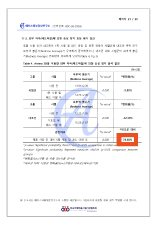
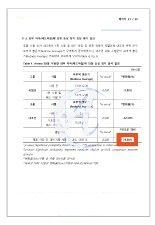
시험기관명·보고서 번호 비공개 처리, 보고서 이미지 로고 제거
Claude-Session: https://claude.ai/code/session_01Mrz4E1zX3mzs7w2jWr6BSj

diff --git a/product.html b/product.html
@@ -227,7 +227,7 @@ h1,h2,h3,h4,p{margin:0}
 <div style="flex:1 1 520px;display:flex;flex-direction:column;gap:18px">
 <span class="km" style="font-size:40px;line-height:1">HALF</span>
 <h2 id="test-title" style="font-size:clamp(32px,3.8vw,52px);line-height:1.25;font-weight:700">러너의 체감에만 머물지 않고,<br>시험으로 확인했습니다</h2>
-<p style="font-size:18px;line-height:1.85;color:#272F59">외부 시험기관 (주)에이스피부임상연구소에서 인체적용시험 3종을 진행해 마찰 조건에서의 피부 붉은기 변화와 피부 자극 여부를 확인했습니다.</p>
+<p style="font-size:18px;line-height:1.85;color:#272F59">외부 피부임상 전문 시험기관에서 인체적용시험 3종을 진행해 마찰 조건에서의 피부 붉은기 변화와 피부 자극 여부를 확인했습니다.</p>
 </div>
 <img loading="lazy" class="photo" src="images/test_runner.jpg" alt="러너가 앉아서 허벅지에 노벤디아 스틱을 바르는 모습" style="flex:0 1 300px;width:300px;aspect-ratio:292/375">
 </div>
@@ -255,13 +255,13 @@ h1,h2,h3,h4,p{margin:0}
 </div>
 <figure class="card" style="flex:1 1 220px;margin:0;padding:24px;display:flex;flex-direction:column;gap:12px;align-items:center">
 <strong style="font-size:16px;align-self:flex-start">시험보고서 원문</strong>
-<img loading="lazy" src="images/report1.jpg" alt="에이스피부임상연구소 시험보고서 ASC-26-E926 21쪽 표 4 일부" style="width:100%;max-width:200px;border:1px solid #E4DDD1;border-radius:4px">
-<figcaption class="note" style="text-align:center">ASC-26-E926 · 21쪽 · 표 4</figcaption>
+<img loading="lazy" src="images/report1.jpg" alt="인체적용시험 보고서 표 4 일부" style="width:100%;max-width:200px;border:1px solid #E4DDD1;border-radius:4px">
+<figcaption class="note" style="text-align:center">시험보고서 · 표 4</figcaption>
 </figure>
 </div>
 <div style="display:flex;flex-direction:column;gap:6px">
 <p style="font-size:14px;font-weight:600;color:#272F59">성인 여성 22명 · 왼쪽 전박(아래팔) · Antera 3D · 군 간 비교 p &lt; 0.05</p>
-<p class="note">시험기관 (주)에이스피부임상연구소 | 시험일 2026.09.28 | 시험 결과에는 개인차가 있습니다. 백분율은 보고서 기재값이며, 그래프는 참여자 평균값입니다.</p>
+<p class="note">외부 피부임상 전문 시험기관 | 시험일 2026.09.28 | 시험 결과에는 개인차가 있습니다. 백분율은 보고서 기재값이며, 그래프는 참여자 평균값입니다.</p>
 </div>
 </article>
 
@@ -288,13 +288,13 @@ h1,h2,h3,h4,p{margin:0}
 </div>
 <figure class="card" style="flex:1 1 220px;margin:0;padding:24px;display:flex;flex-direction:column;gap:12px;align-items:center">
 <strong style="font-size:16px;align-self:flex-start">시험보고서 원문</strong>
-<img loading="lazy" src="images/report2.jpg" alt="에이스피부임상연구소 시험보고서 ASC-26-E926 23쪽 표 5 일부" style="width:100%;max-width:200px;border:1px solid #E4DDD1;border-radius:4px">
-<figcaption class="note" style="text-align:center">ASC-26-E926 · 23쪽 · 표 5</figcaption>
+<img loading="lazy" src="images/report2.jpg" alt="인체적용시험 보고서 표 5 일부" style="width:100%;max-width:200px;border:1px solid #E4DDD1;border-radius:4px">
+<figcaption class="note" style="text-align:center">시험보고서 · 표 5</figcaption>
 </figure>
 </div>
 <div style="display:flex;flex-direction:column;gap:6px">
 <p style="font-size:14px;font-weight:600;color:#272F59">성인 여성 22명 · 오른쪽 전박 · 패드 마찰 30회 · Antera 3D · 군 간 비교 p &lt; 0.05</p>
-<p class="note">시험기관 (주)에이스피부임상연구소 | 시험일 2026.09.28 | 시험 결과에는 개인차가 있습니다. 백분율은 보고서 기재값이며, 그래프는 참여자 평균값입니다.</p>
+<p class="note">외부 피부임상 전문 시험기관 | 시험일 2026.09.28 | 시험 결과에는 개인차가 있습니다. 백분율은 보고서 기재값이며, 그래프는 참여자 평균값입니다.</p>
 </div>
 </article>
 
@@ -311,7 +311,7 @@ h1,h2,h3,h4,p{margin:0}
 <figure class="card" style="flex:2 1 420px;margin:0;padding:24px;display:flex;flex-direction:column;gap:12px">
 <strong style="font-size:16px">판정 결과 확인서 원문</strong>
 <img loading="lazy" src="images/report3.jpg" alt="판정 결과 확인서 일부: 폴리글라이드 스틱, 자극 결과 0.00, 판정 비자극(Excellent)" style="width:100%;border:1px solid #E4DDD1;border-radius:4px">
-<figcaption class="note">ASC-2610-P032 · 3쪽 발췌</figcaption>
+<figcaption class="note">판정 결과 확인서 발췌</figcaption>
 </figure>
 </div>
 <ul style="list-style:none;margin:0;padding:0;display:grid;grid-template-columns:repeat(auto-fit,minmax(200px,1fr));gap:12px">
@@ -319,7 +319,7 @@ h1,h2,h3,h4,p{margin:0}
 <li class="card" style="padding:18px 20px;display:flex;flex-direction:column;gap:4px"><span style="font-size:13px;color:#594A3E">시험 조건</span><strong style="font-size:16px">등 부위 · 24시간 폐쇄 첩포</strong></li>
 <li class="card" style="padding:18px 20px;display:flex;flex-direction:column;gap:4px"><span style="font-size:13px;color:#594A3E">평가 시점</span><strong style="font-size:16px">첩포 제거 30분 · 24시간 후</strong></li>
 </ul>
-<p class="note">시험기관 (주)에이스피부임상연구소 · 시험기간 2026.10.06–10.08. 위 결과는 해당 시험 조건에서의 피부 일차 자극 평가 결과입니다. 민감성 피부 전용 적합성이나 반복 사용 안전성을 별도로 확인한 결과는 아닙니다. 개인별 반응은 다를 수 있습니다.</p>
+<p class="note">외부 피부임상 전문 시험기관 · 시험기간 2026.10.06–10.08. 위 결과는 해당 시험 조건에서의 피부 일차 자극 평가 결과입니다. 민감성 피부 전용 적합성이나 반복 사용 안전성을 별도로 확인한 결과는 아닙니다. 개인별 반응은 다를 수 있습니다.</p>
 </article>
 </div>
 </section>

diff --git a/index.html b/index.html
@@ -132,29 +132,29 @@ h1,h2,h3,h4,p{margin:0}
 <div style="display:flex;flex-direction:column;gap:16px;max-width:760px">
 <span class="eyebrow">Clinical Test</span>
 <h2 id="test-title" style="font-size:clamp(30px,3.4vw,46px);line-height:1.3;font-weight:700">러너의 체감에만 머물지 않고,<br>외부 시험기관에서 확인했습니다</h2>
-<p style="font-size:17px;line-height:1.8;color:#272F59">(주)에이스피부임상연구소에서 진행한 인체적용시험 3종의 결과입니다.</p>
+<p style="font-size:17px;line-height:1.8;color:#272F59">외부 피부임상 전문 시험기관에서 진행한 인체적용시험 3종의 결과입니다.</p>
 </div>
 <div style="display:grid;grid-template-columns:repeat(auto-fit,minmax(280px,1fr));gap:20px">
 <div class="card" style="background:#F2EDE4;padding:32px;display:flex;flex-direction:column;gap:12px">
 <span class="num" style="font-size:16px;font-weight:600;letter-spacing:.12em;color:#594A3E">01 · 마찰 후 붉은기</span>
 <span class="num" style="font-size:68px;font-weight:700;line-height:1;color:#162059">73.56<span style="font-size:40px">%</span></span>
 <p style="font-size:16px;line-height:1.65;color:#272F59">패드 마찰 후 무도포 부위 대비 <strong>붉은기 증가율이 낮게</strong> 측정되었습니다.</p>
-<p class="note">성인 여성 22명 · 아래팔 · Antera 3D · 군 간 비교 p&lt;0.05 · 시험일 2026.09.28 · 보고서 ASC-26-E926</p>
+<p class="note">성인 여성 22명 · 아래팔 · Antera 3D · 군 간 비교 p&lt;0.05 · 시험일 2026.09.28</p>
 </div>
 <div class="card" style="background:#F2EDE4;padding:32px;display:flex;flex-direction:column;gap:12px">
 <span class="num" style="font-size:16px;font-weight:600;letter-spacing:.12em;color:#594A3E">02 · 반복 마찰 30회</span>
 <span class="num" style="font-size:68px;font-weight:700;line-height:1;color:#162059">68.09<span style="font-size:40px">%</span></span>
 <p style="font-size:16px;line-height:1.65;color:#272F59">패드 마찰 30회 후에도 무도포 부위 대비 <strong>붉은기 증가율이 낮게</strong> 측정되었습니다.</p>
-<p class="note">성인 여성 22명 · 아래팔 · Antera 3D · 군 간 비교 p&lt;0.05 · 시험일 2026.09.28 · 보고서 ASC-26-E926</p>
+<p class="note">성인 여성 22명 · 아래팔 · Antera 3D · 군 간 비교 p&lt;0.05 · 시험일 2026.09.28</p>
 </div>
 <div class="card" style="background:#F2EDE4;padding:32px;display:flex;flex-direction:column;gap:12px">
 <span class="num" style="font-size:16px;font-weight:600;letter-spacing:.12em;color:#594A3E">03 · 24시간 첩포</span>
 <span class="num" style="font-size:68px;font-weight:700;line-height:1;color:#162059">0.00</span>
 <p style="font-size:16px;line-height:1.65;color:#272F59">피부 일차 자극 지수 0.00, <strong>비자극(Excellent) 판정</strong>을 받았습니다.</p>
-<p class="note">성인 남녀 33명 · 등 부위 · 24시간 폐쇄 첩포 · 시험기간 2026.10.06–10.08 · 보고서 ASC-2610-P032</p>
+<p class="note">성인 남녀 33명 · 등 부위 · 24시간 폐쇄 첩포 · 시험기간 2026.10.06–10.08</p>
 </div>
 </div>
-<p class="note">시험기관 (주)에이스피부임상연구소. 위 결과는 해당 시험 조건에서의 결과이며, 개인에 따라 차이가 있을 수 있습니다. 첩포 결과는 모든 피부에서 무자극을 보장하는 의미가 아닙니다. <a href="product.html#test" style="color:#594A3E;font-weight:600">시험 상세 보기</a></p>
+<p class="note">위 결과는 해당 시험 조건에서의 결과이며, 개인에 따라 차이가 있을 수 있습니다. 첩포 결과는 모든 피부에서 무자극을 보장하는 의미가 아닙니다. <a href="product.html#test" style="color:#594A3E;font-weight:600">시험 상세 보기</a></p>
 </div>
 </section>
 
